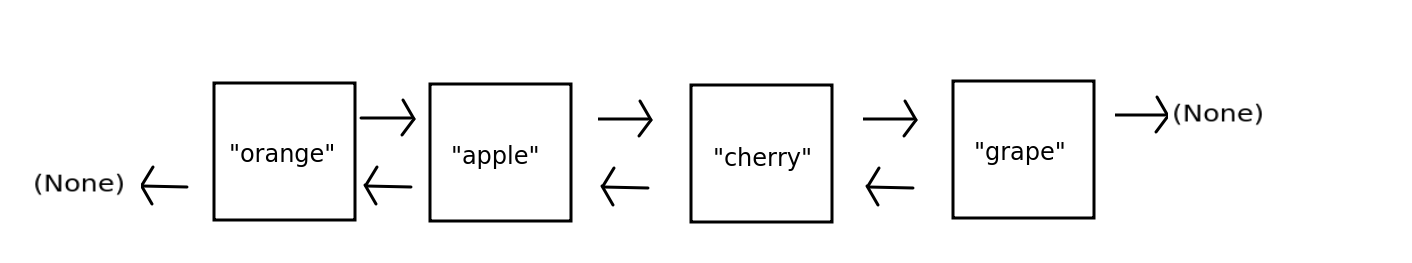
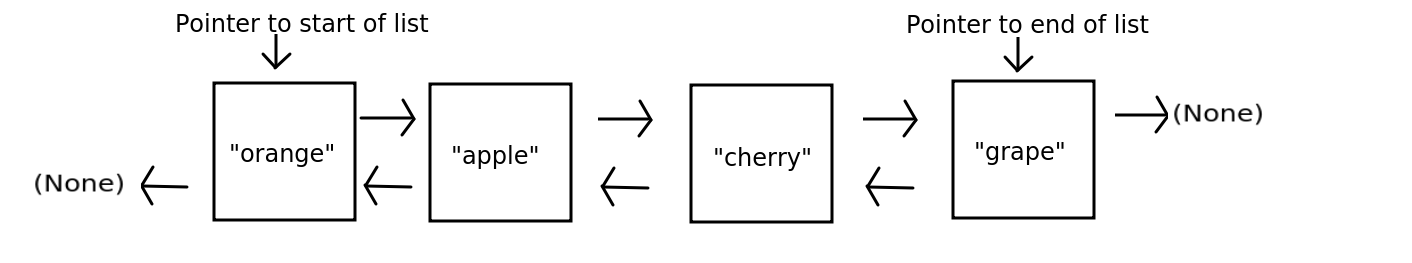
COM421 week 1 updates

diff --git a/COM421/week1.html b/COM421/week1.html
@@ -75,7 +75,7 @@ Charley Chase
 Earl Edwards
 Frances Freeman
 </code></pre>
-<p>Imagine we had a new name, <code>Danielle Dawson</code> which we wanted to insert between <code>Charley Chase</code> and <code>Earl Edwards</code> in the array above. What we would have to do is:</p>
+<p>Imagine we had a new name, "Danielle Dawson" which we wanted to insert between "Charley Chase" and "Earl Edwards" in the array above. What we would have to do is:</p>
 <ul>
 <li>Create a new array, with one more space than the original array;</li>
 <li>Copy the existing elements over to the new array, leaving a space for the new member;</li>
@@ -99,14 +99,15 @@ linked list.</p>
 a new item of data, we make the previous node link to the new node, and
 we link the new node back to the previous node to form a two-way link.</p>
 <p>The first node in the list links to nothing in the reverse direction (indicated in Python by the special value <code>None</code>) and similarly, the final node in the list links to nothing in the forward direction.</p>
-<p>What are the consequences of this? We will examine this by considering the
-three scenarios we looked at for arrays:</p>
+<p>What are the consequences of this? </p>
 <ul>
-<li>Remember how we could use simple arithmetic, using the array index, to 
+<li><p>Remember how we could use simple arithmetic, using the array index, to 
 calculate the location in memory of a given element in an array. Can
 we do this here? <strong>We cannot. This is because, in a linked list, items are not 
 stored continuously in memory. Instead, each node contains references to the 
-memory locations of the previous and the following node.</strong></li>
+memory locations of the previous and the following node.</strong></p></li>
+<li><p>On the other hand, <strong>as long as we have a reference to both the start and the end of the linked list, it's efficient to add a new member to the end of the linked list</strong>. We can just create a new node and link it, both ways, to the end node. Contrast this to arrays, in which we had to create a new array with additional space and copy the elements over. We will explore this in more detail in the exercises this week.</p></li>
+<li><p>Insertion into the <em>middle</em> of the list has mixed efficiency. On the one hand we have to find the index we want to insert the element at (which as we saw above is inefficient), on the other hand the actual insertion process is easier as we can just break the existing links between the node BEFORE the element we want to insert and the node AFTER this element, and then link in the new element. Again we will look at this in the exercises.</p></li>
 </ul>
 <h2 id="thestack">The stack</h2>
 <p>A stack data structure involves adding items from bottom to top, rather like a
@@ -185,7 +186,7 @@ operating_systems[4] = "iOS"
 <ol start="2">
 <li>Write a program which creates an array with the 10 employees mentioned in Exercise 1. Display "Jane Smith" and "Mike Watson" by indexing the array appropriately.</li>
 </ol>
-<h4 id="exercise3addingnewdatatoanarraypaper">Exercise 3: Adding new data to an array (paper)</h4>
+<h3 id="exercise3addingnewdatatoanarraypaper">Exercise 3: Adding new data to an array (paper)</h3>
 <p>Do this exercise on paper. This is a similar example to that given in the lecture, and is designed to illustrate the problems with adding new data to an array.</p>
 <ul>
 <li>Draw a 4-member array containing the values "C++", "Java", "PHP" and "Python"</li>
@@ -217,7 +218,7 @@ same thing with a linked list. On paper, draw a linked list containing the eleme
 - Windows
 - Mac OS X
 </code></pre>
-<p>Now try and add new element "Android" to the end of the linked list. What do you have to do? </p></li>
+<p>Now try and add new element "Android" to the end of the linked list. What do you have to do? Draw out what happens on paper.</p></li>
 </ol>
 <h3 id="exercise5stacks">Exercise 5: Stacks</h3>
 <p>We are now going to perform another paper-based exercise with stacks, to help
@@ -235,8 +236,6 @@ any errors that might occur.</p>
 <li>Earl Edwards</li>
 <li>Frances Freeman</li>
 </ul>
-<p>On paper Draw these as a linked list. Now try to add <code>Danielle Dawson</code> at the appropriate
-place between <code>Charley Chase</code> and <code>Earl Edwards</code>. What operations need to be
-done now? Do you think this would be more or less efficient than using an array? </p>
+<p>On paper Draw these as a linked list. Now try to add "Danielle Dawson" at the appropriate place between "Charley Chase" and "Earl Edwards". What operations need to be done now? Draw them on paper again. Do you think this would be more or less efficient than using an array? </p>
 <h2 id="readingfornextweek">Reading for next week</h2>
 <p>Next time we will look at how we can actually implement these data structures in Python. To prepare for this, try doing a bit of reading on <em>Classes and Objects in Python</em>.</p></body></html>

diff --git a/COM421/week1.md b/COM421/week1.md
@@ -159,8 +159,7 @@ we link the new node back to the previous node to form a two-way link.
 
 The first node in the list links to nothing in the reverse direction (indicated in Python by the special value `None`) and similarly, the final node in the list links to nothing in the forward direction.
  
-What are the consequences of this? We will examine this by considering the
-three scenarios we looked at for arrays:
+What are the consequences of this? 
 
 - Remember how we could use simple arithmetic, using the array index, to 
 calculate the location in memory of a given element in an array. Can
@@ -168,6 +167,9 @@ we do this here? **We cannot. This is because, in a linked list, items are not
 stored continuously in memory. Instead, each node contains references to the 
 memory locations of the previous and the following node.**
 
+- On the other hand, **as long as we have a reference to both the start and the end of the linked list, it's efficient to add a new member to the end of the linked list**. We can just create a new node and link it, both ways, to the end node. Contrast this to arrays, in which we had to create a new array with additional space and copy the elements over. We will explore this in more detail in the exercises this week.
+
+- Insertion into the *middle* of the list has mixed efficiency. On the one hand we have to find the index we want to insert the element at (which as we saw above is inefficient), on the other hand the actual insertion process is easier as we can just break the existing links between the node BEFORE the element we want to insert and the node AFTER this element, and then link in the new element. Again we will look at this in the exercises.
 
 ## The stack
 
@@ -263,7 +265,7 @@ Now run it. Do you get the result that you expected? See how this illustrates an
 
 2. Write a program which creates an array with the 10 employees mentioned in Exercise 1. Display "Jane Smith" and "Mike Watson" by indexing the array appropriately.
 
-#### Exercise 3: Adding new data to an array (paper)
+### Exercise 3: Adding new data to an array (paper)
 
 Do this exercise on paper. This is a similar example to that given in the lecture, and is designed to illustrate the problems with adding new data to an array.
 
@@ -300,7 +302,7 @@ draw the second array with the new values "JavaScript" and "Kotlin" inserted int
         - Windows
         - Mac OS X
 
-    Now try and add new element "Android" to the end of the linked list. What do you have to do? 
+    Now try and add new element "Android" to the end of the linked list. What do you have to do? Draw out what happens on paper.
 
 
 ### Exercise 5: Stacks
@@ -324,7 +326,7 @@ Return to your linked list exercise (exercise 4, above). Think about adding a me
 - Earl Edwards
 - Frances Freeman
 
-On paper Draw these as a linked list. Now try to add "Danielle Dawson" at the appropriate place between "Charley Chase" and "Earl Edwards". What operations need to be done now? Do you think this would be more or less efficient than using an array? 
+On paper Draw these as a linked list. Now try to add "Danielle Dawson" at the appropriate place between "Charley Chase" and "Earl Edwards". What operations need to be done now? Draw them on paper again. Do you think this would be more or less efficient than using an array? 
 
 ## Reading for next week
 
